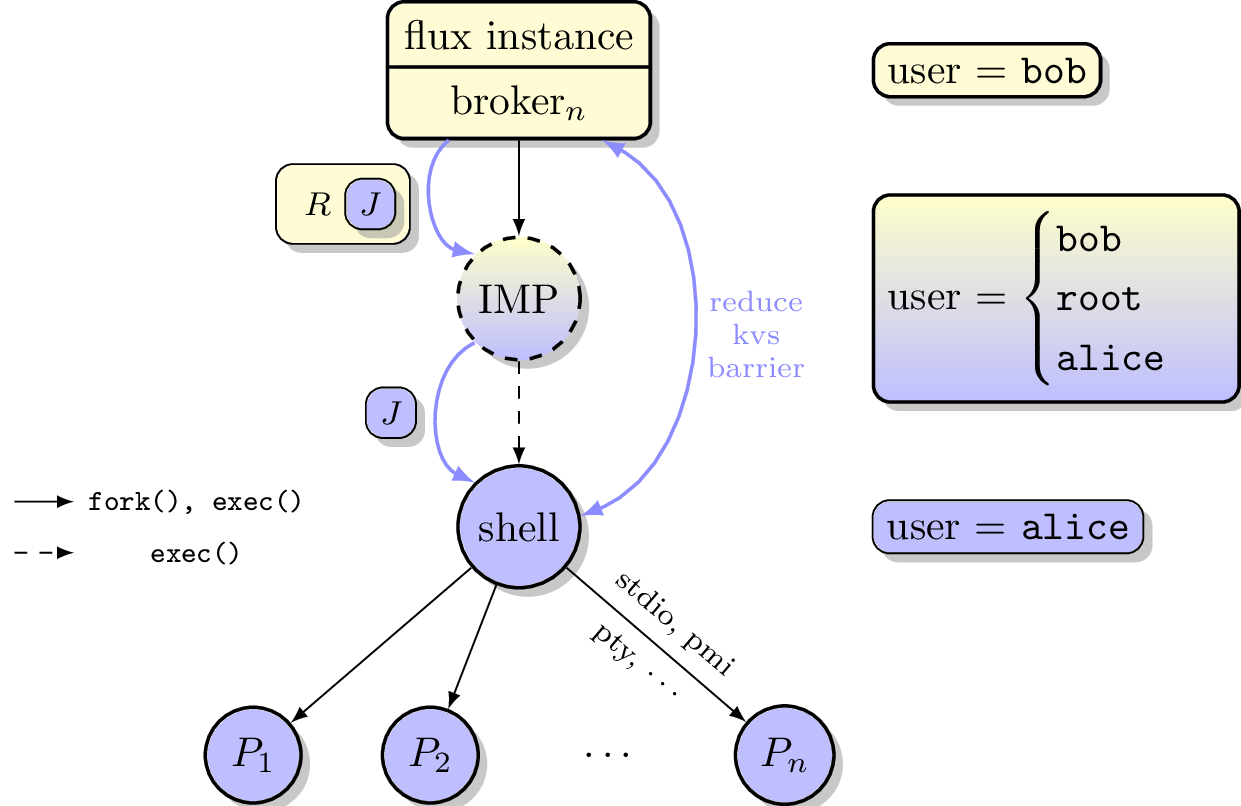
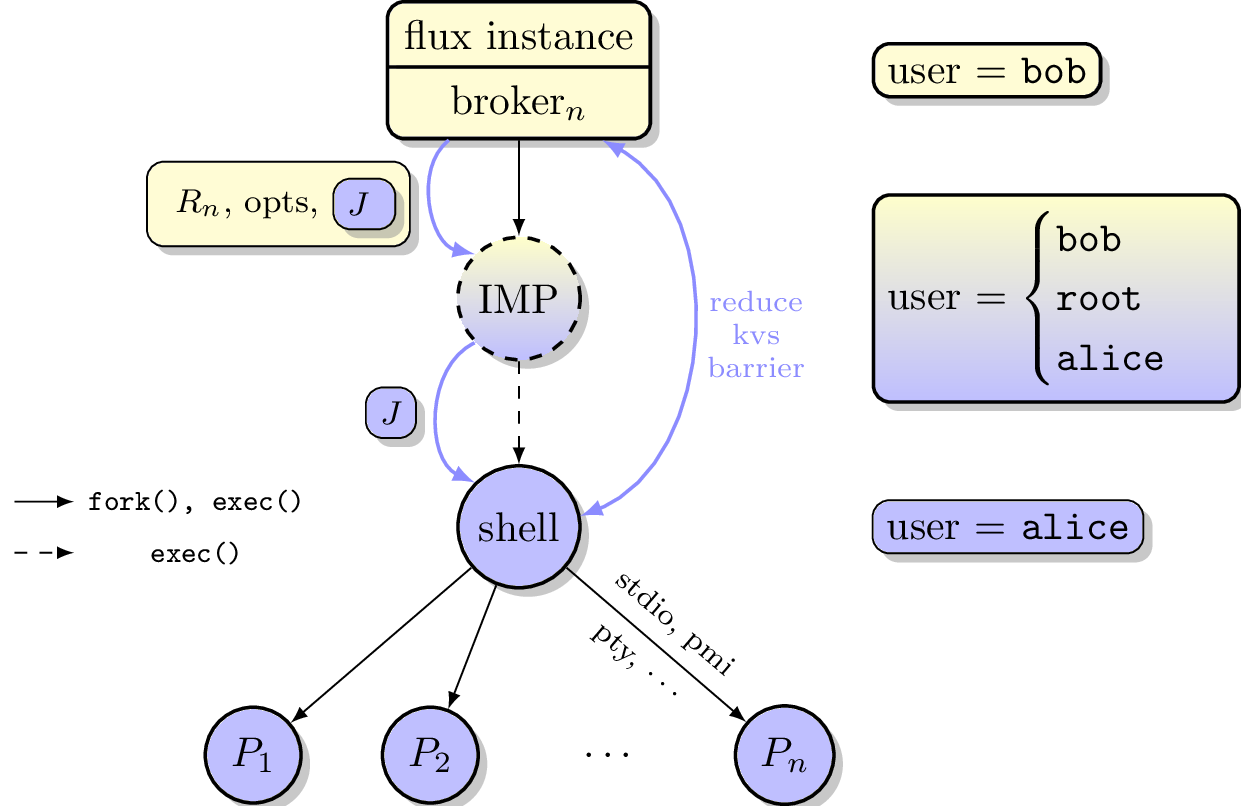
rfc15: update IMP diagram
Update IMP diagram to show input to the imp is now { Rn, options, J }

Changed region(s): [[0.0919, 0.1861, 0.3368, 0.3412]]

diff --git a/data/spec_15/impish.tex b/data/spec_15/impish.tex
@@ -54,7 +54,7 @@
                   (sh.135);
 
     \node[rtok, matrix=true, left of=step1, anchor=east, node distance=.5em] {%
-	 \node {$R$}; & \node[jtok] {$J$}; \\
+	 \node {$R_n$, opts,}; & \node[jtok] { $J$ }; \\
          };
     \node[jtok, left of=step2, anchor=east, node distance=.5em] (J) {$J$};
 
